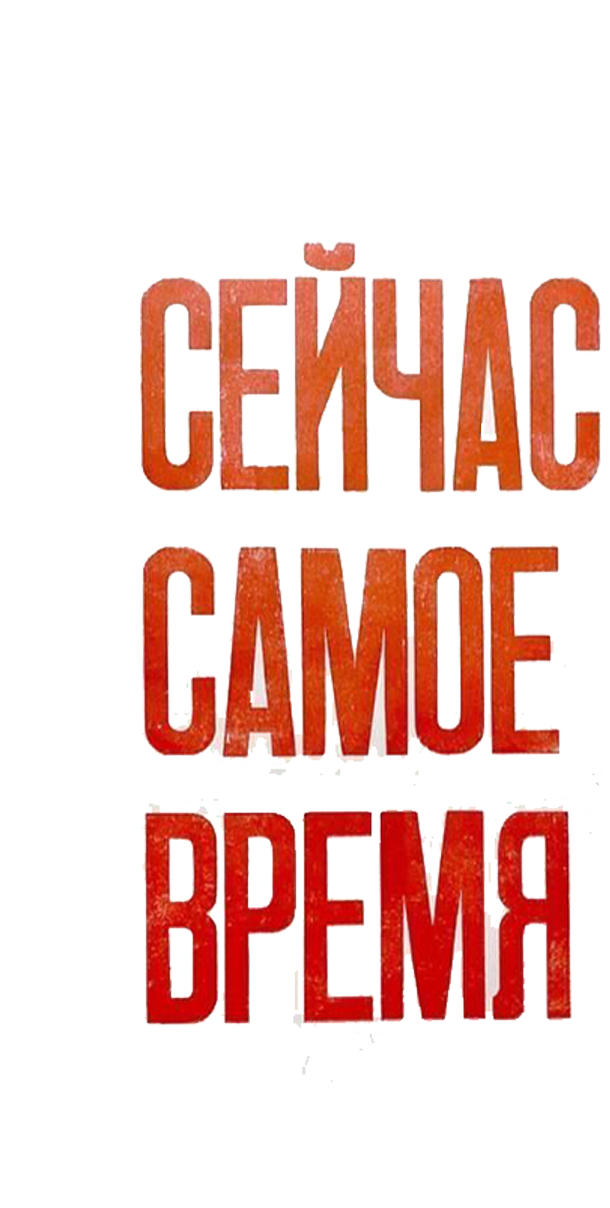
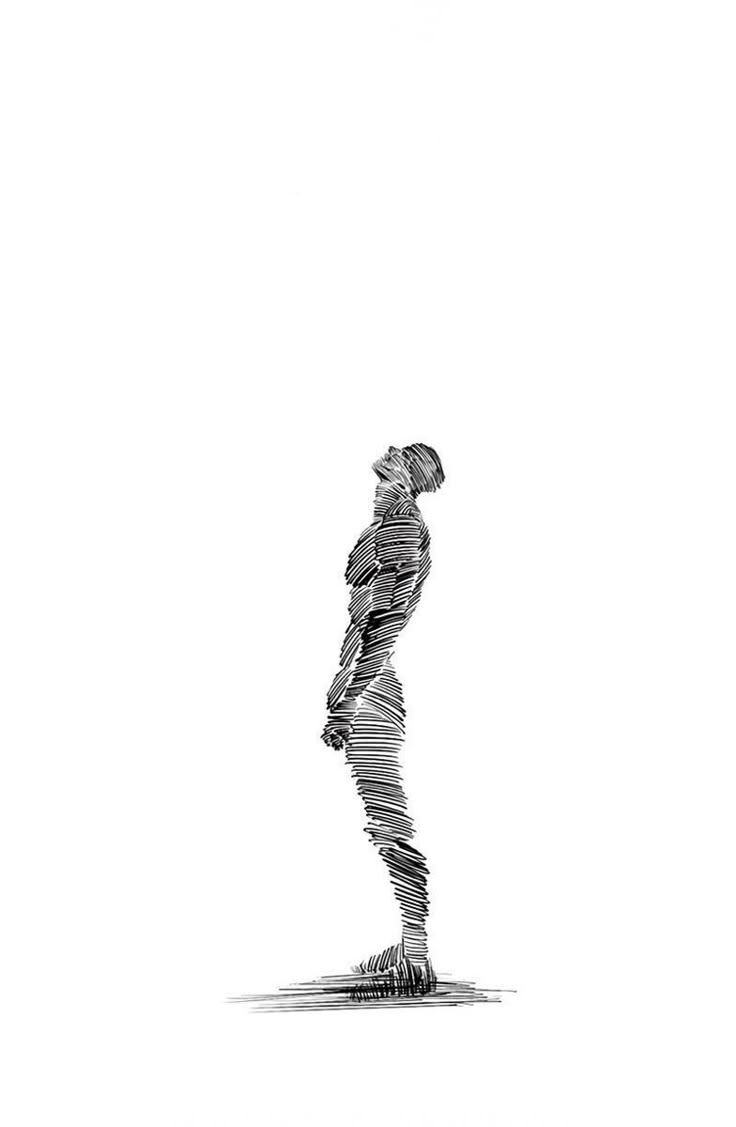
fix

Changed region(s): [[0.218, 0.1863, 0.9967, 0.9006]]

diff --git a/_includes/home/intro.html b/_includes/home/intro.html
@@ -4,7 +4,7 @@
       {% include site-nav.html %}
 
       <div class="intro-illustration">
-        <img src="/img/intro.jpg" class="img-full-width intro-illustration-banner-sm relative" alt="illustration portraying me juggling user experience, technology, and business goals" width="400" />
+        <img src="/img/intro.png" class="img-full-width intro-illustration-banner-sm relative" alt="illustration portraying me juggling user experience, technology, and business goals" width="400" />
       </div>
 
       <h2 class="headline mt4 mb2 pt3">
@@ -19,7 +19,7 @@
     </div>
 
     <div class="intro-illustration intro-illustration-container col col-6">
-      <img alt="illustration portraying me juggling user experience, technology, and business goals" src="/img/intro.jpg" class="img-full-width right intro-img-primary relative" width="480" />
+      <img alt="illustration portraying me juggling user experience, technology, and business goals" src="/img/intro.png" class="img-full-width right intro-img-primary relative" width="480" />
     </div>
 
 </section>
